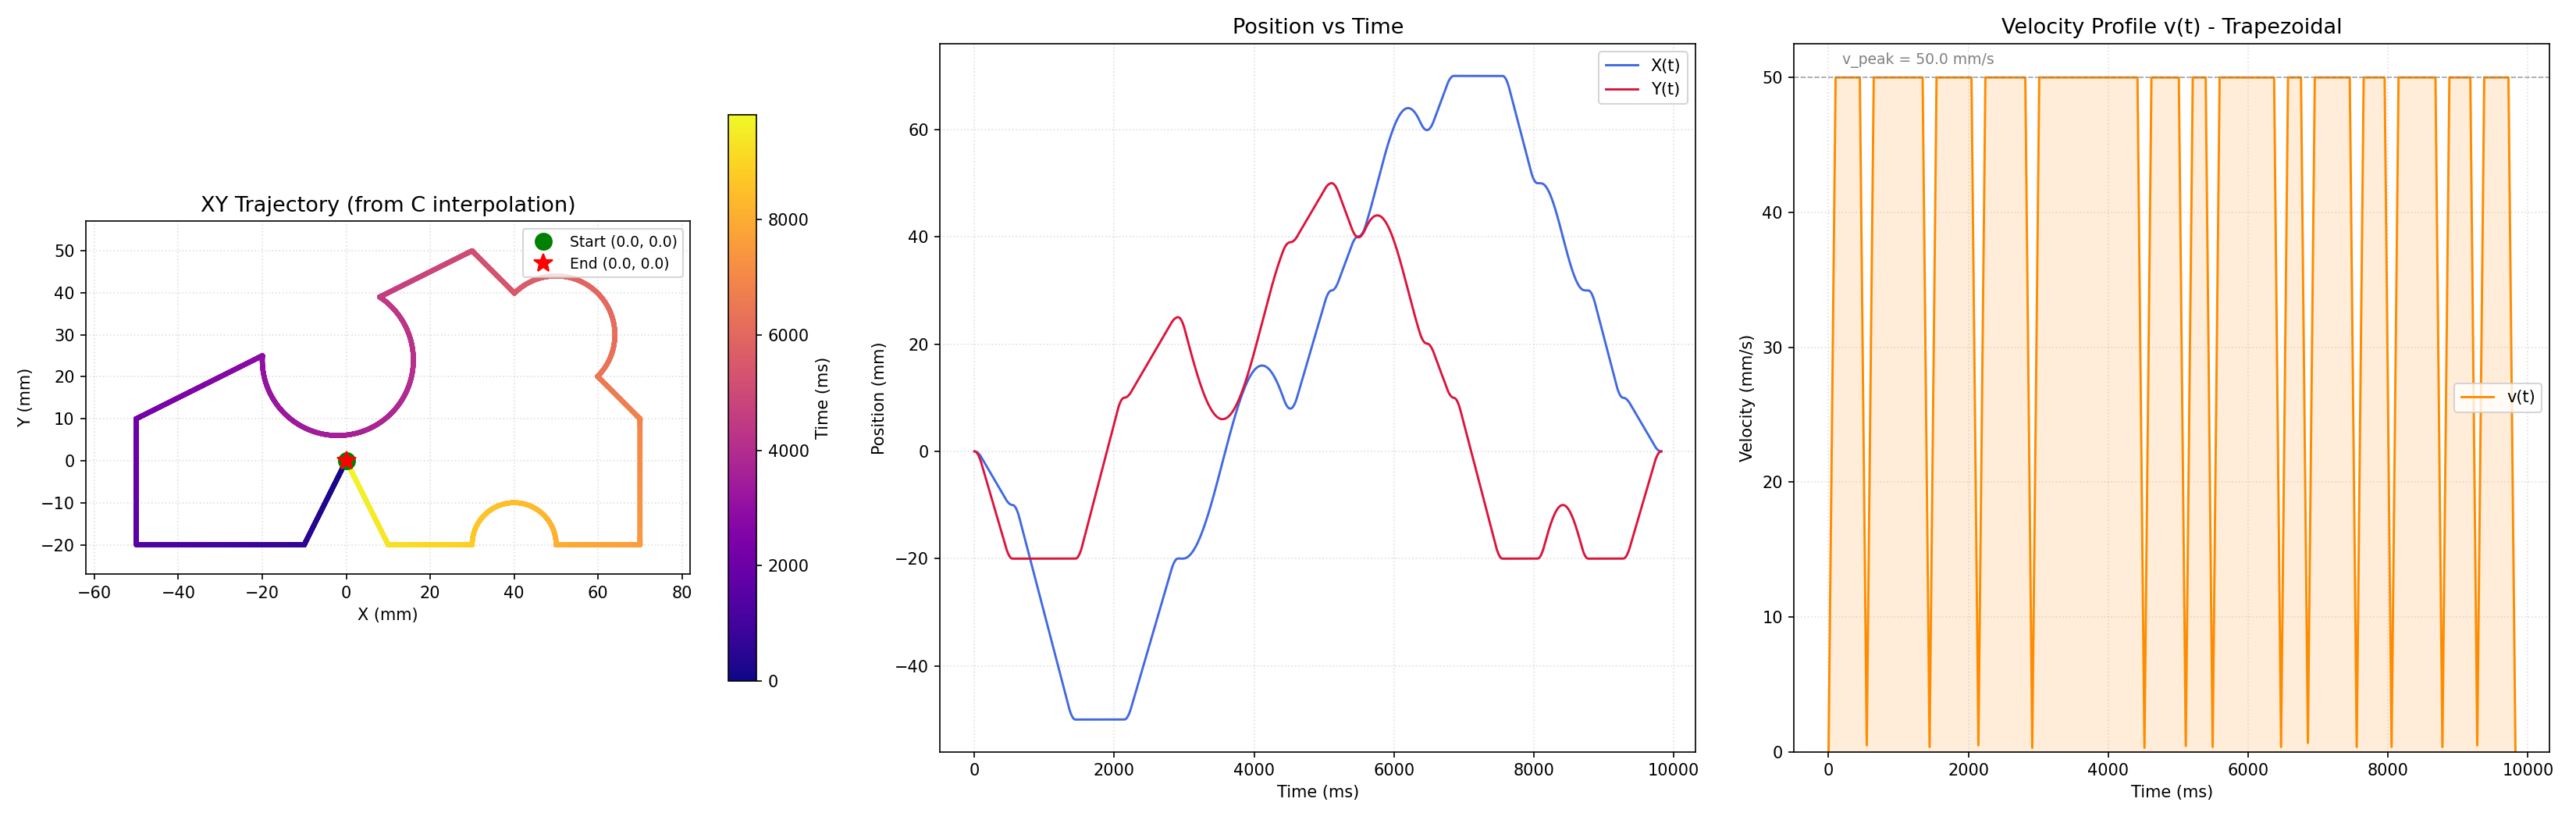
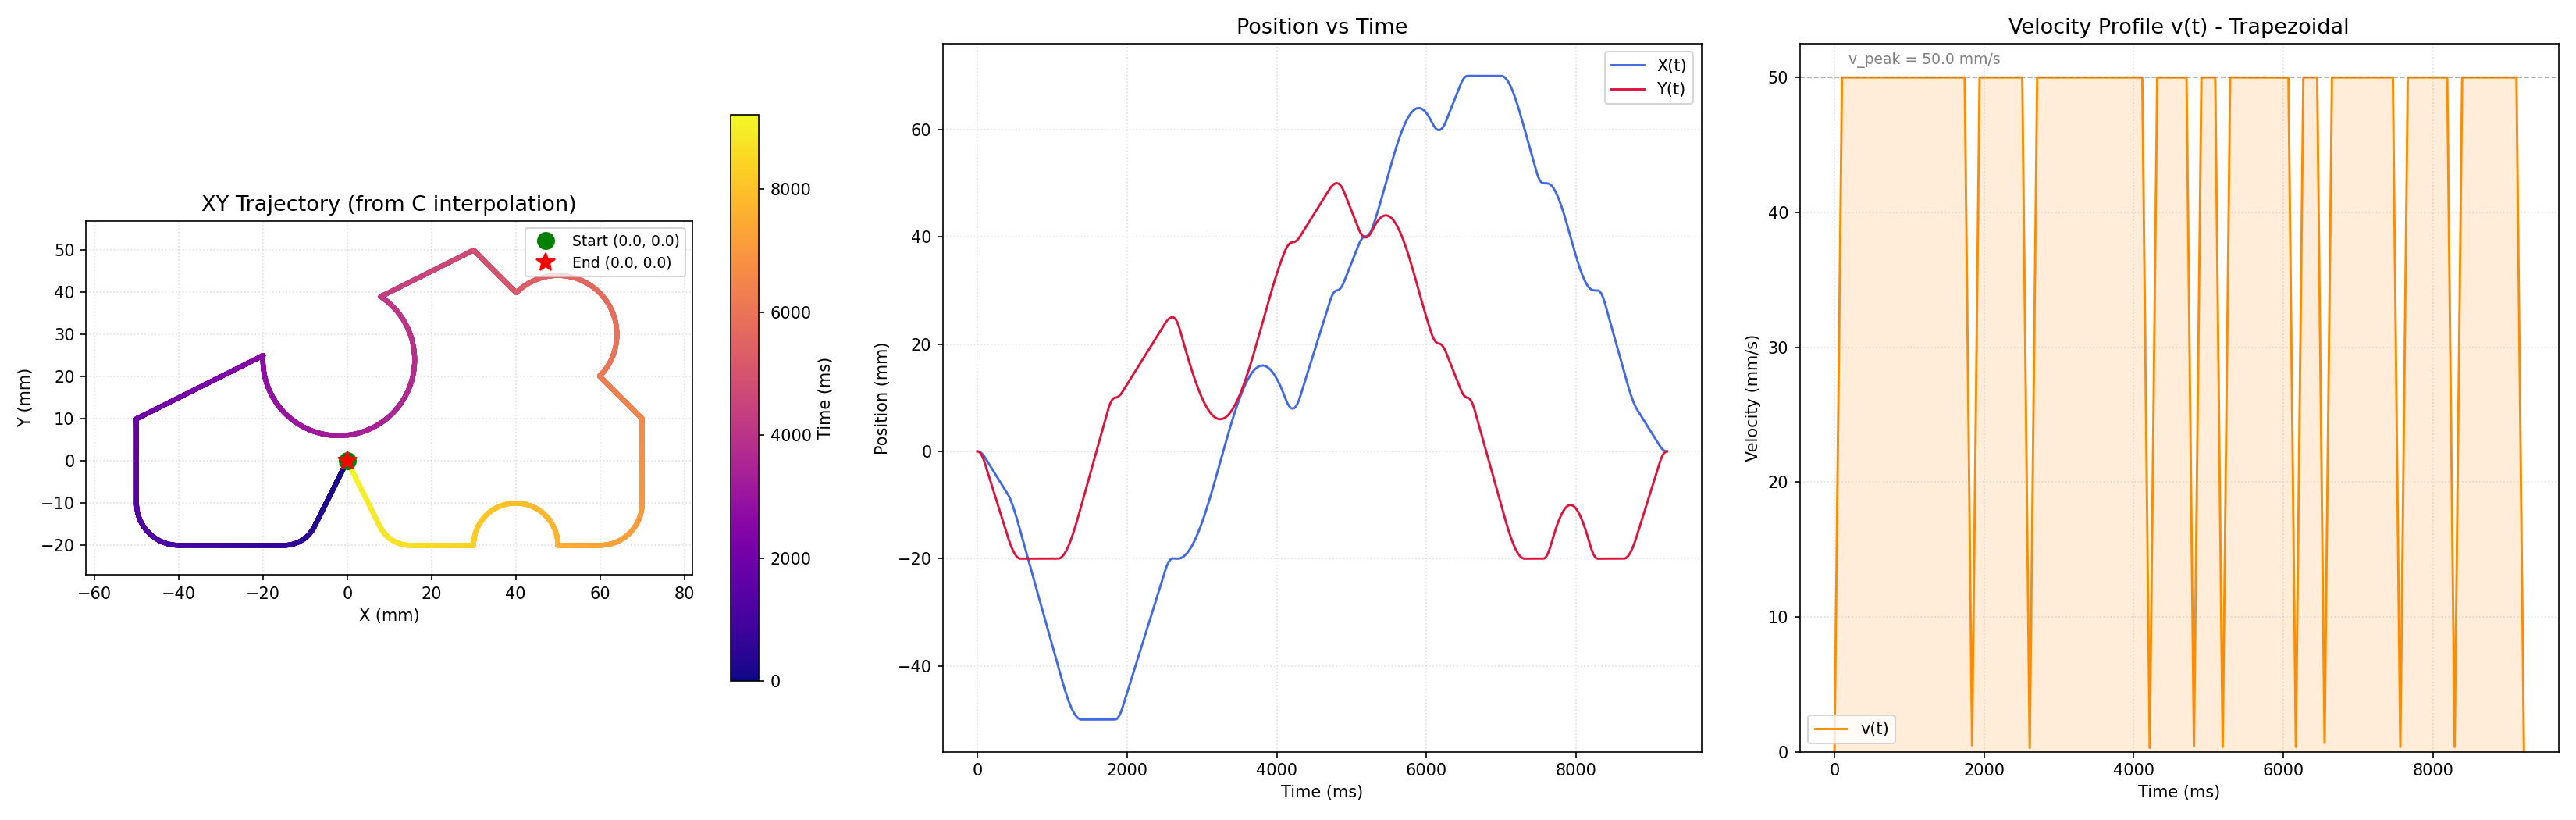
feat: bo goc bang cung tron cho R tren lenh G01 (corner rounding)
Phat hien khi doi chieu voi sach CNC Programming Tutorials (trang 13):
R8/R10 tren cac dong G01 (N50/N60/N140/N170) la ban kinh bo goc tai
P1/P2/P10/P13 theo cu phap kieu Fanuc -- truoc day parser bo qua nen
quy dao cat goc nhon, sai so voi ban ve.

Them apply_corner_rounding(), chay giua build_segments() va
compute_lookahead():
- Goc tai dinh P giua 2 doan thang: 2 tiep diem cach P mot doan
  d = R*tan(alpha/2), cat ngan 2 doan va chen cung tron ban kinh R
  tiep xuc ca 2 canh (chieu G2/G3 theo dau cross product)
- Cung tiep tuyen LIEN TUC 2 dau -> junction_velocity khong gioi han
  -> dao giu nguyen toc do qua goc (day chinh la cach "chuan" de qua
  goc nhanh, bo sung cho look-ahead)
- Bao ve: goc gan thang bo qua; R khong du cho (d > 0.9*L) thi
  giu goc nhon va canh bao

Ket qua (test 14 doan, JUNCTION_T = 1ms):
- 14 -> 18 segments (chen 4 cung: R8 tai P1/P13, R10 tai P2/P10)
- Tong thoi gian 9822.4 -> 9216.1 ms (-6%), quy dao khop ban ve hon
- Gia toc huong tam tai goc: v^2/R = 50^2/8 = 312 mm/s^2 < a_max=500
  (chua enforce trong code, ghi nhan viec tuong lai)
- Verify: ve dung (0,0), v <= 50, buoc max 0.05mm, khong NaN
- Cap nhat trajectory_plot.png theo quy dao moi (4 goc day bo tron,
  v(t) bot 4 cu tut sau)

diff --git a/Tuần 3/Trí/main.c b/Tuần 3/Trí/main.c
@@ -1,7 +1,6 @@
 /*
  * =============================================================
  * GCode Trajectory Calculator -- Trapezoid Velocity + Look-ahead
- * (ban rut gon cua main.c -- output giong het tung byte)
  * =============================================================
  *
  * LUONG XU LY:
@@ -279,6 +278,7 @@ struct Segment {
     float length;                /* do dai doan (mm) */
     float tan_in_x,  tan_in_y;   /* vector tiep tuyen don vi tai diem DAU */
     float tan_out_x, tan_out_y;  /* vector tiep tuyen don vi tai diem CUOI */
+    float corner_r;              /* ban kinh bo goc tai DIEM CUOI doan (0 = khong bo) */
     float v_entry, v_exit;       /* ket qua look-ahead (mm/s) */
 };
 
@@ -486,6 +486,7 @@ int build_segments(struct GCommand *commands, int cmd_count, struct Segment *seg
             float L  = sqrtf(dx*dx + dy*dy);
             if (L < 0.001f) continue;  /* doan khong di chuyen (vd G90 G0 X0 Y0 tu goc) */
             s->length    = L;
+            s->corner_r  = cmd->has_r ? fabsf(cmd->r) : 0.0f;
             s->tan_in_x  = dx / L;
             s->tan_in_y  = dy / L;
             s->tan_out_x = s->tan_in_x;
@@ -493,6 +494,98 @@ int build_segments(struct GCommand *commands, int cmd_count, struct Segment *seg
         }
 
         if (++n >= MAX_SEGMENTS) break;
+    }
+    return n;
+}
+
+/* =============================================================
+   CORNER ROUNDING (bo goc bang cung tron)
+   =============================================================
+
+   Cu phap kieu Fanuc: "G01 X.. Y.. R8" -> goc tai DIEM CUOI cua doan
+   nay duoc bo tron ban kinh 8mm. Vi du trong sach CNC Programming
+   Tutorials (Thanh Tran, trang 13): R8/R10 tai P1, P2, P10, P13.
+
+   Hinh hoc: goc tai dinh P giua 2 doan thang, huong vao u, huong ra w,
+   goc doi huong alpha (cos alpha = u.w nhu eq 36). Cung tron ban kinh R
+   tiep xuc ca 2 canh, hai tiep diem cach P mot doan:
+       d = R * tan(alpha/2)
+   Doan truoc bi cat ngan d o cuoi, doan sau cat ngan d o dau,
+   chen 1 segment cung tron (dai R*alpha) vao giua.
+
+   Loi ich voi look-ahead: 2 diem noi moi (thang->cung, cung->thang)
+   co tiep tuyen LIEN TUC (alpha = 0) -> junction_velocity() tra ve
+   "khong gioi han" -> dao giu nguyen toc do qua goc thay vi phai
+   giam gan ve 0 nhu goc nhon. Luu y gia toc huong tam v^2/R phai
+   <= a_max: voi R8, v=50 -> 312 mm/s^2 < 500, on (chua enforce
+   trong code, ghi nhan viec tuong lai).
+*/
+int apply_corner_rounding(struct Segment *segs, int n) {
+    int i;
+    for (i = 0; i + 1 < n; i++) {
+        struct Segment *a = &segs[i];
+        float r = a->corner_r;
+        if (r <= 0.0f || a->is_arc || segs[i+1].is_arc) continue;
+        if (n >= MAX_SEGMENTS) break;
+
+        /* goc doi huong tai dinh goc (nhu junction_velocity) */
+        float ux = a->tan_out_x,      uy = a->tan_out_y;
+        float wx = segs[i+1].tan_in_x, wy = segs[i+1].tan_in_y;
+        float dot = ux*wx + uy*wy;
+        if (dot >  1.0f) dot =  1.0f;
+        if (dot < -1.0f) dot = -1.0f;
+        float alpha = acosf(dot);
+        if (alpha < 0.01f) continue;   /* gan thang: khong co goc de bo */
+
+        /* tiep diem cach dinh d = R*tan(alpha/2); phai vua trong 2 doan */
+        float d = r * tanf(alpha * 0.5f);
+        if (d > 0.9f * a->length || d > 0.9f * segs[i+1].length) {
+            printf("  [WARN] bo goc R%.1f khong du cho (d=%.2f mm), giu goc nhon\n", r, d);
+            continue;
+        }
+
+        float px = a->x1, py = a->y1;               /* dinh goc cu */
+        float ax = px - ux * d, ay = py - uy * d;   /* tiep diem VAO cung */
+        float bx = px + wx * d, by = py + wy * d;   /* tiep diem RA cung */
+
+        /* chieu quay: cross > 0 = re trai = CCW (G3), cross < 0 = CW (G2) */
+        float cross = ux*wy - uy*wx;
+        int cw = (cross < 0.0f);
+        /* tam = tiep diem vao + R * phap tuyen (phap tuyen huong ve phia re) */
+        float nx = cw ? uy : -uy;
+        float ny = cw ? -ux : ux;
+        float cx = ax + r * nx, cy = ay + r * ny;
+
+        /* don cho trong mang: day cac doan tu i+1 lui 1 vi tri */
+        memmove(&segs[i+2], &segs[i+1], (size_t)(n - i - 1) * sizeof(*segs));
+        n++;
+
+        /* cat ngan doan truoc (giu tangent) */
+        a->x1 = ax;  a->y1 = ay;
+        a->length  -= d;
+        a->corner_r = 0.0f;
+
+        /* cat ngan doan sau */
+        segs[i+2].x0 = bx;  segs[i+2].y0 = by;
+        segs[i+2].length -= d;
+
+        /* chen cung tron tiep tuyen lien tuc 2 dau */
+        struct Segment *arc = &segs[i+1];
+        memset(arc, 0, sizeof(*arc));
+        arc->is_arc    = 1;
+        arc->clockwise = cw;
+        arc->x0 = ax;  arc->y0 = ay;
+        arc->x1 = bx;  arc->y1 = by;
+        arc->i_off = cx - ax;
+        arc->j_off = cy - ay;
+        arc->feedrate  = a->feedrate;
+        arc->length    = r * alpha;
+        arc->tan_in_x  = ux;  arc->tan_in_y  = uy;
+        arc->tan_out_x = wx;  arc->tan_out_y = wy;
+
+        printf("  bo goc R%.1f tai (%.2f, %.2f): cung %s dai %.2f mm\n",
+               r, px, py, cw ? "G2" : "G3", arc->length);
+        i++;   /* nhay qua cung vua chen */
     }
     return n;
 }
@@ -574,7 +667,11 @@ int main(int argc, char *argv[]) {
     /* buoc 1: resolve hinh hoc */
     struct Segment segments[MAX_SEGMENTS];
     int seg_count = build_segments(commands, cmd_count, segments);
-    printf("Built %d motion segments\n\n", seg_count);
+    printf("Built %d motion segments\n", seg_count);
+
+    /* bo goc: chen cung tron tai cac goc co R tren lenh G01 */
+    seg_count = apply_corner_rounding(segments, seg_count);
+    printf("After corner rounding: %d segments\n\n", seg_count);
 
     /* buoc 2: look-ahead dien v_entry/v_exit cho tung doan */
     compute_lookahead(segments, seg_count);